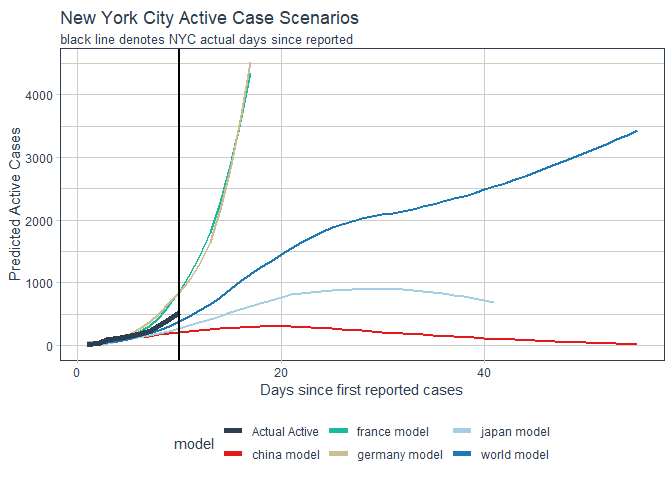
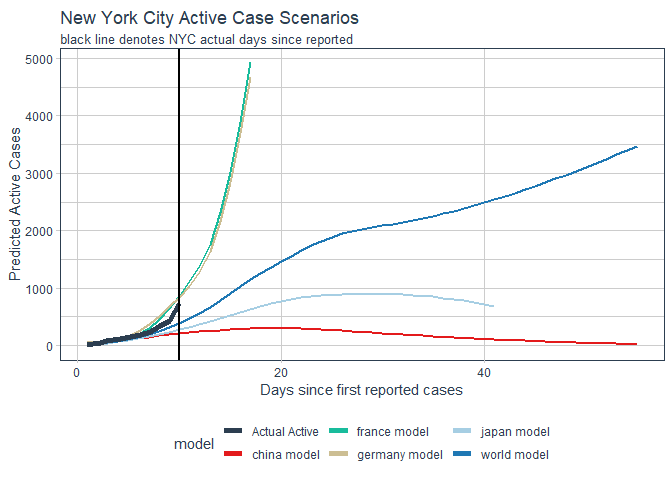
updated NYC cases 2020 03 15 2300

diff --git a/README.md b/README.md
@@ -44,13 +44,13 @@ ny_cases <-
 message("Number of confirmed NY cases as of ",max_date,": ", ny_cases$Confirmed,"\n")
 ```
 
-    ## Number of confirmed NY cases as of 2020-03-15: 524
+    ## Number of confirmed NY cases as of 2020-03-15: 729
 
 ``` r
 message("Number of active NY cases as of ",max_date,": ",ny_cases$Active)
 ```
 
-    ## Number of active NY cases as of 2020-03-15: 522
+    ## Number of active NY cases as of 2020-03-15: 723
 
 # Names by country
 
@@ -131,17 +131,7 @@ processed <-
 # Overlaying NYC Cases with the Chinese Provinces (ex-Wuhan)
 
 ``` r
-NYC_reports <- 
-  tribble(~days_since_reported, ~Confirmed
-          , 1, 0
-          , 4, 43 # Wednesday 3/11
-          , 5, 100 # Thursday 3/12
-          , 6, 170 # Friday 3/13
-          , 7, 213 # Saturday 3/14
-          , 8, 269 # Sunday 3/15 as of 9:00 am
-
-  ) %>% 
-  mutate(area = "NYC", Country = "US")
+source("Recording NYC Cases.R")
 
 
 # Most advanced cases - China
@@ -157,7 +147,7 @@ NYC_vs_China_cases <-
   theme(legend.position = "none")+
   labs(title = "NYC Covid-19 cases vs. Chinese provinces"
        , subtitle = "Each line represents a Chinese province. Excludes Hubei (Wuhan).
-Black line is NYC. Data current as of 2020-03-14"
+Black line is NYC. Data current as of 2020-03-15"
 , y = "Count of Confirmed Cases"
 , x = "Days since outbreak first reported"
 , caption = "Source: http://hgis.uw.edu/virus/assets/virus.csv\n NYC data collected by hand")
@@ -359,7 +349,7 @@ US
 
 <td style="text-align:right;">
 
-269
+329
 
 </td>
 
